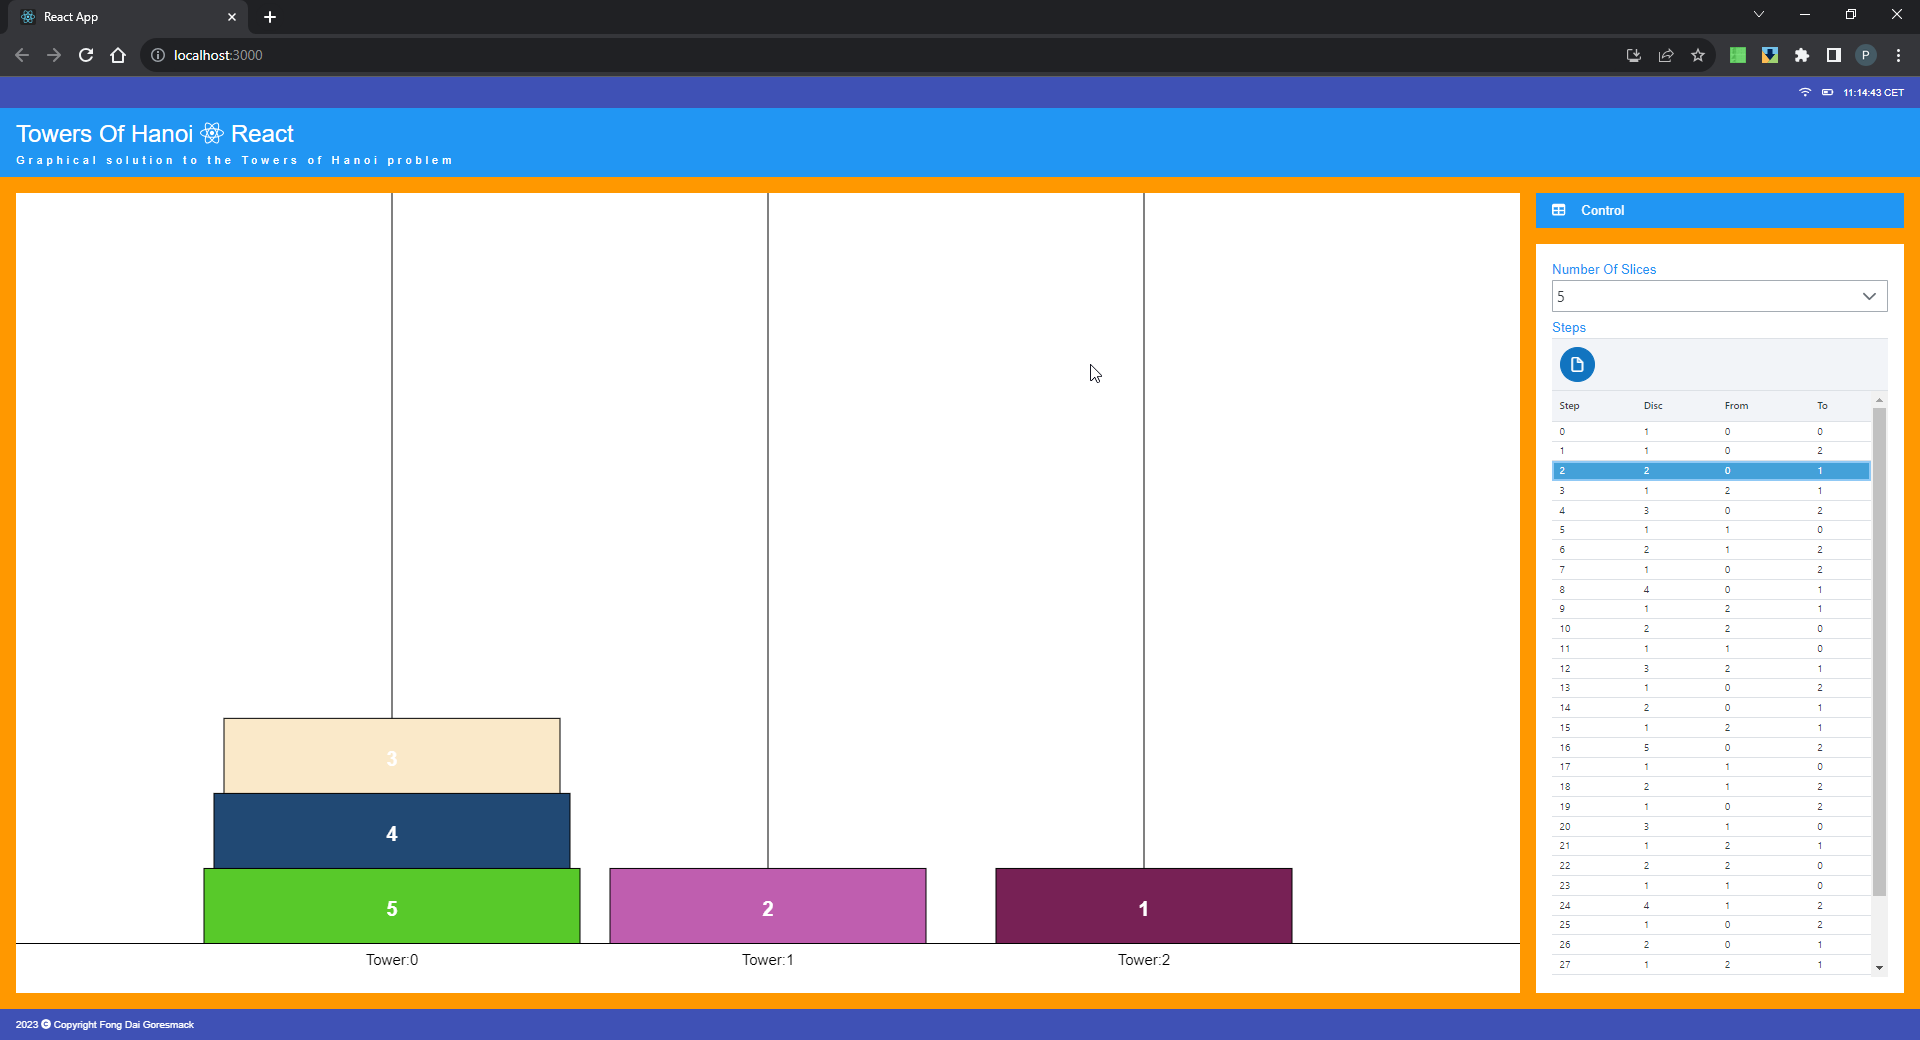
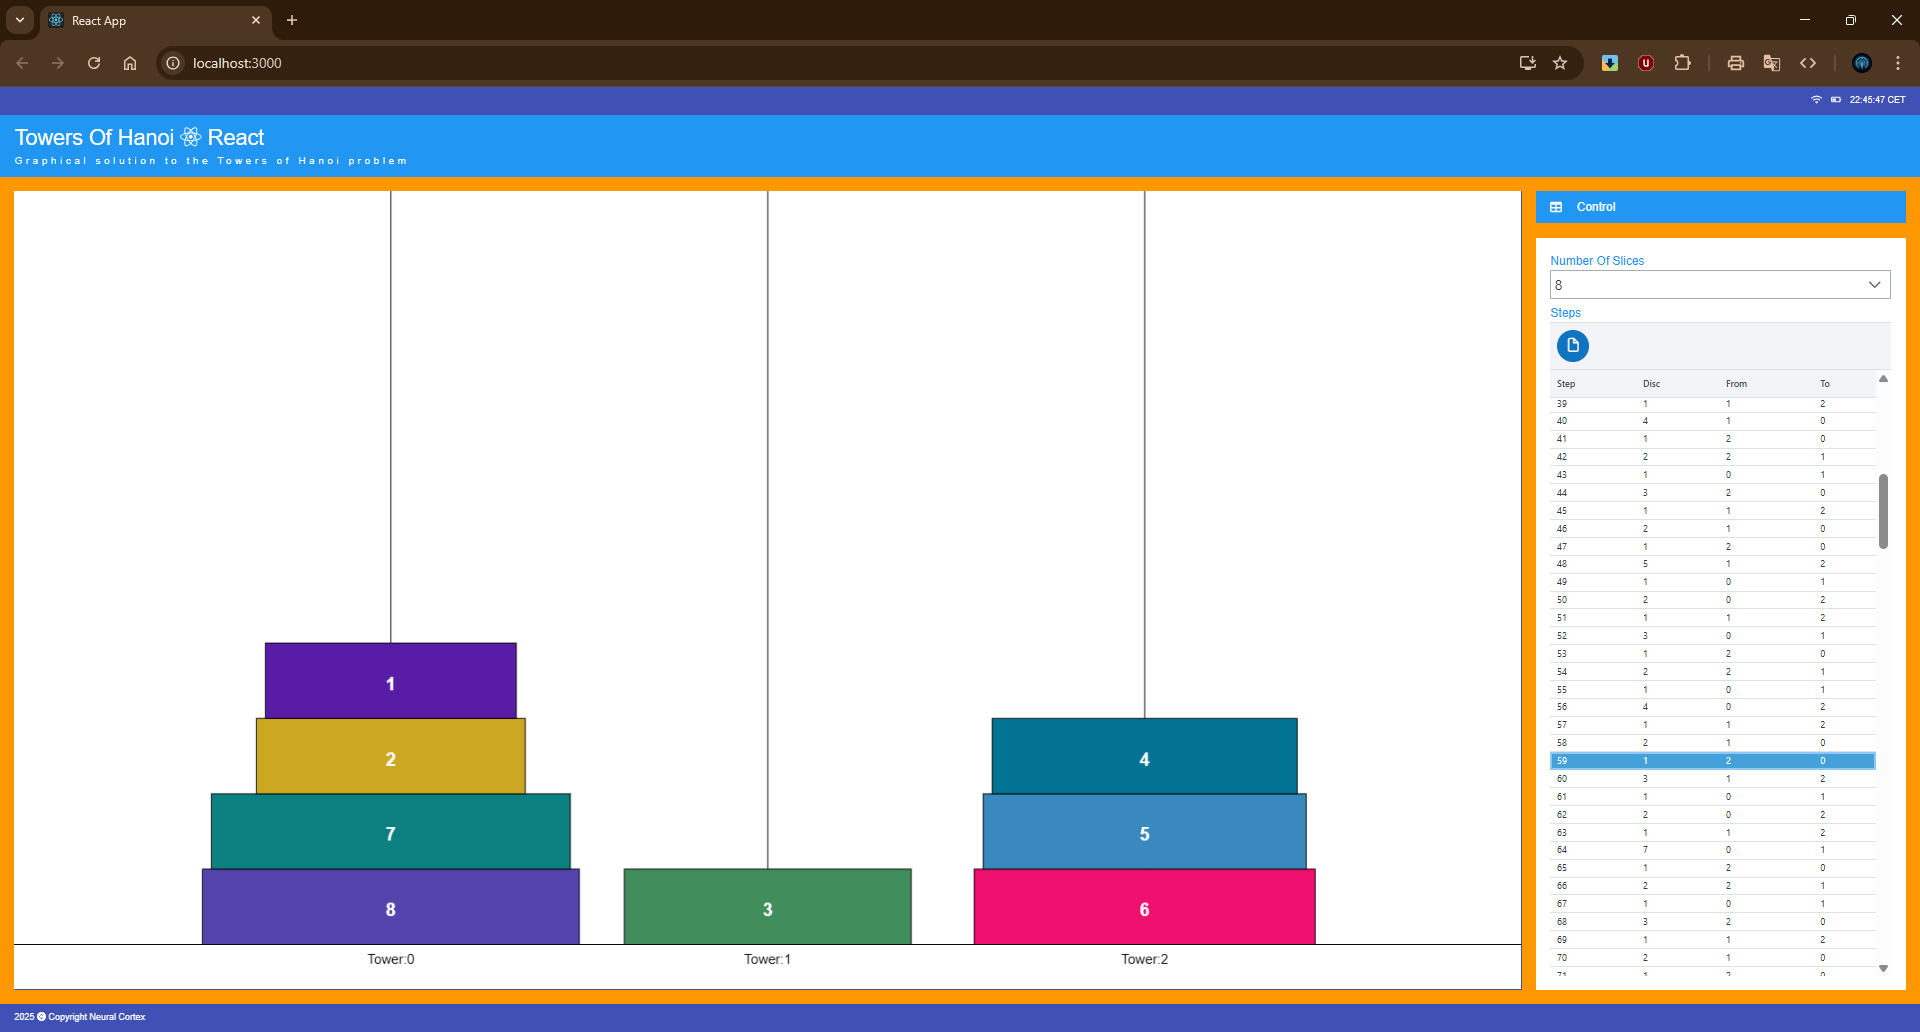
README.md Update

diff --git a/src/components/Footer.jsx b/src/components/Footer.jsx
@@ -18,7 +18,7 @@ export class Footer extends Component {
     render() {
         return (
             <footer id="footer" className="w3-container w3-indigo w3-padding w3-tiny">
-                <label>{this.state.year} <FontAwesomeIcon icon="copyright"></FontAwesomeIcon> Copyright Fong Dai Goresmack</label>
+                <label>{this.state.year} <FontAwesomeIcon icon="copyright"></FontAwesomeIcon> Copyright Neural Cortex</label>
             </footer>
         );
     }

diff --git a/README.md b/README.md
@@ -1,102 +1,35 @@
-# TOWERS OF HANOI React 1.0.0 
+# Towers of Hanoi React 1.0.0
 
-![image](https://github.com/NeuralCortex/Towers_Of_Hanoi_React/blob/main/app.png)
+![Towers of Hanoi App](https://github.com/NeuralCortex/Towers_Of_Hanoi_React/blob/main/app.png)
 
-## How the program works
+## Overview
 
-Towers of Hanoi is a divide and conquer mathematical puzzle game.<br>
-The game consists of 3 stacks, with discs of different sizes ordered by size.<br>
-The aim of the game is to rearrange the discs from stack 1 to stack 3 (i.e. the stack on the right).<br>
-Only the existing stacks may be used and no larger disc may lie on top of a smaller one.
+Towers of Hanoi is a mathematical puzzle game based on a divide-and-conquer approach. The game consists of three stacks with discs of varying sizes arranged in ascending order. The objective is to move all discs from Stack 1 to Stack 3 (the rightmost stack) while adhering to the following rules:
 
-The program uses a recursive algorithm to solve the problem.<br>
-On the right side of the program there is a table with all the necessary steps to solve the problem.<br>
-This solution can be exported to a CSV file.
+- Only the provided stacks may be used.
+- No larger disc can be placed on top of a smaller disc.
 
-A maximum of 10 discs are supported (1024 steps to solve).
+The program uses a recursive algorithm to solve the puzzle. A table on the right side of the interface displays all necessary steps to complete the solution, which can be exported as a CSV file. The program supports up to 10 discs, requiring 1023 steps to solve.
 
-## How the web app works
+## Installation and Setup
 
-To use the app, you need to execute following steps:
-1. Install Node.js
-2. Go to the project's main directory.
-3. Type `npm install` - Wait for Completion
-4. Type `npm start` for Development-Mode or
-5. Or type `npm run build` for Production-Mode
+To run the web app, follow these steps:
 
-## Technology used
+1. Install [Node.js](https://nodejs.org).
+2. Clone this repository or download the project files.
+3. Navigate to the project's main directory in your terminal.
+4. Run `npm install` and wait for the installation to complete.
+5. Run `npm start` to launch the app in development mode, or
+6. Run `npm run build` to create a production-ready build.
 
-This web app was created with Create React App.
+## Technologies Used
 
-The following tools were used:
+This web app was created using [Create React App](https://github.com/facebook/create-react-app). The following tools were used:
 
 - [Visual Studio Code](https://code.visualstudio.com/)
 - [Node.js](https://nodejs.org)
 - [Google Chrome](https://www.google.com/chrome/)
 
-
 ## Getting Started with Create React App
 
-This project was bootstrapped with [Create React App](https://github.com/facebook/create-react-app).
-
-## Available Scripts
-
-In the project directory, you can run:
-
-### `npm start`
-
-Runs the app in the development mode.\
-Open [http://localhost:3000](http://localhost:3000) to view it in your browser.
-
-The page will reload when you make changes.\
-You may also see any lint errors in the console.
-
-### `npm run build`
-
-Builds the app for production to the `build` folder.\
-It correctly bundles React in production mode and optimizes the build for the best performance.
-
-The build is minified and the filenames include the hashes.\
-Your app is ready to be deployed!
-
-See the section about [deployment](https://facebook.github.io/create-react-app/docs/deployment) for more information.
-
-### `npm run eject`
-
-**Note: this is a one-way operation. Once you `eject`, you can't go back!**
-
-If you aren't satisfied with the build tool and configuration choices, you can `eject` at any time. This command will remove the single build dependency from your project.
-
-Instead, it will copy all the configuration files and the transitive dependencies (webpack, Babel, ESLint, etc) right into your project so you have full control over them. All of the commands except `eject` will still work, but they will point to the copied scripts so you can tweak them. At this point you're on your own.
-
-You don't have to ever use `eject`. The curated feature set is suitable for small and middle deployments, and you shouldn't feel obligated to use this feature. However we understand that this tool wouldn't be useful if you couldn't customize it when you are ready for it.
-
-## Learn More
-
-You can learn more in the [Create React App documentation](https://facebook.github.io/create-react-app/docs/getting-started).
-
-To learn React, check out the [React documentation](https://reactjs.org/).
-
-### Code Splitting
-
-This section has moved here: [https://facebook.github.io/create-react-app/docs/code-splitting](https://facebook.github.io/create-react-app/docs/code-splitting)
-
-### Analyzing the Bundle Size
-
-This section has moved here: [https://facebook.github.io/create-react-app/docs/analyzing-the-bundle-size](https://facebook.github.io/create-react-app/docs/analyzing-the-bundle-size)
-
-### Making a Progressive Web App
-
-This section has moved here: [https://facebook.github.io/create-react-app/docs/making-a-progressive-web-app](https://facebook.github.io/create-react-app/docs/making-a-progressive-web-app)
-
-### Advanced Configuration
-
-This section has moved here: [https://facebook.github.io/create-react-app/docs/advanced-configuration](https://facebook.github.io/create-react-app/docs/advanced-configuration)
-
-### Deployment
-
-This section has moved here: [https://facebook.github.io/create-react-app/docs/deployment](https://facebook.github.io/create-react-app/docs/deployment)
-
-### `npm run build` fails to minify
-
-This section has moved here: [https://facebook.github.io/create-react-app/docs/troubleshooting#npm-run-build-fails-to-minify](https://facebook.github.io/create-react-app/docs/troubleshooting#npm-run-build-fails-to-minify)
+This project was bootstrapped with [Create React App](https://github.com/facebook/create-react-app). For more information on available scripts and customization, refer to the [Create React App documentation](https://facebook.github.io/create-react-app/docs/getting-started).
